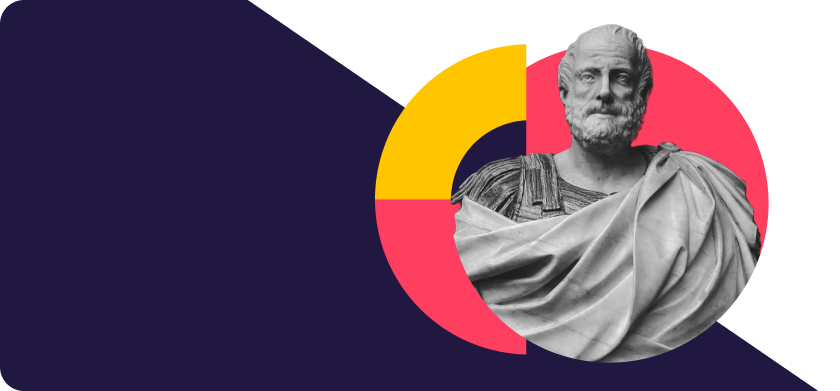
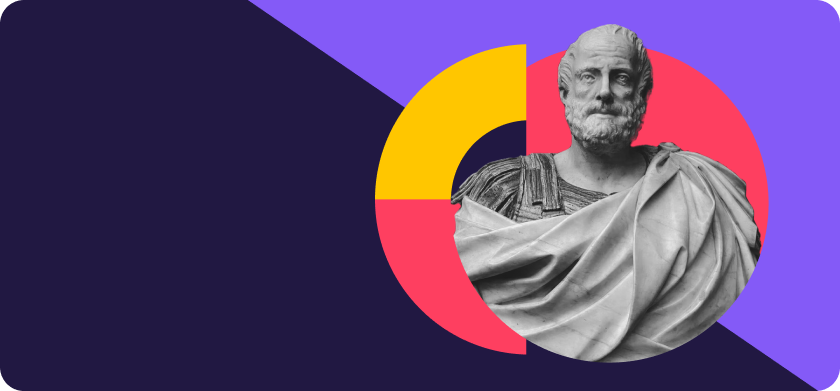
card 2

Changed region(s): [[0.2786, 0.0, 1.0, 1.0]]

diff --git a/src/components/Clases/Clases.jsx b/src/components/Clases/Clases.jsx
@@ -1,34 +1,33 @@
-import React,{useEffect, useState} from "react";
+import React, { useEffect, useState } from "react";
 import Mobile from "../../assets/mobile/bookmobile.png";
 import book from "../../assets/desktop/book.png";
 import fondo from "../../assets/desktop/fondo.png";
 import Statue from "../../assets/mobile/Image.png";
 import StatueDesk from "../../assets/desktop/statueDesk.png";
 import article2Mobile from "../../assets/mobile/card2.png";
-import article2 from "../../assets/Multimedia/article2.jpg";
+import article2 from "../../assets/desktop/repaso.png";
+import linesCard from "../../assets/desktop/linesCard.png";
 import MobileSlider from "../Carousel/Mobile/MobileSlider";
 import DeskSlider from "../Carousel/Desktop/DeskSlider";
-import axios from "axios"
+import axios from "axios";
 import { MdDone } from "react-icons/md";
 
 const Clases = () => {
   const whatsapp = "5491139478794";
-  const [userData, setUserData] = useState({})
+  const [userData, setUserData] = useState({});
   console.log(userData);
   useEffect(() => {
-    const data = async() => {
-      await axios.get("https://ipapi.co/json/")
-        .then((res) => {
-          if (!res) {
+    const data = async () => {
+      await axios.get("https://ipapi.co/json/").then((res) => {
+        if (!res) {
           console.log("error fetching ip api");
-          }
-          else {
-            setUserData(res.data)
-          }
-      })
-    }
-    data()
-  }, [])
+        } else {
+          setUserData(res.data);
+        }
+      });
+    };
+    data();
+  }, []);
   return (
     <section
       id="clases"
@@ -72,7 +71,7 @@ const Clases = () => {
           src={fondo}
           alt="background"
         />
-        <div className="z-10 flex flex-col gap-8 lg:flex-row lg:items-center lg:w-8/12 lg:h-[450px] 2xl:w-7/12 3xl:w-6/12">
+        <div className="z-10 flex flex-col gap-8 lg:flex-row lg:items-center lg:w-9/12 lg:h-[450px] 2xl:w-7/12 3xl:w-6/12">
           <div className="w-11/12 bg-white m-auto py-8 px-6 border rounded-xl flex flex-col gap-6 items-center justify-between sm:h-[500px] sm:p-10 lg:m-0 lg:h-full 2xl:py-10">
             <h4 className="font-poppins text-[18px] font-extrabold text-subTitleColor">
               Clases individuales
@@ -179,36 +178,57 @@ const Clases = () => {
           <div className="w-11/12 mx-auto h-[3px] my-3 bg-gray-100 lg:hidden"></div>
         </div>
       </article>
-      <article className="w-11/12 mx-auto mt-8 bg-blueColor rounded-[30px] sm:w-9/12 md:w-[62%] lg:w-8/12 lg:overflow-hidden lg:rounded-[18px] lg:relative  2xl:w-7/12 2xl:h-[417px] 3xl:w-6/12 4xl:h-[465px] xl:rounded-[30px]">
+      <article className="w-11/12 mx-auto mt-8 bg-blueColor lg:bg-transparent rounded-[26px] sm:rounded-[38px] sm:w-9/12 md:w-[62%] lg:w-9/12 lg:mt-10 lg:relative">
         <img
           className="w-full sm:object-cover lg:hidden"
           src={Statue}
           alt="statue"
         />
         <img
-          className="hidden lg:block lg:object-cover 2xl:h-[417px] 4xl:h-[465px]"
+          className="hidden lg:block w-full"
           src={StatueDesk}
           alt="statue"
         />
-        <div className="hidden absolute lg:flex lg:flex-col lg:bottom-10 lg:left-10 text-white 2xl:bottom-16 2xl:left-14">
+        <div className="absolute lg:flex lg:flex-col lg:bottom-10 lg:left-10 text-white 2xl:bottom-16 2xl:left-14">
           <h3 className="text-[56px] font-extrabold">
-            Get <span className="text-pinkColor">3</span> lessons, pay for{" "}
-            <span className="text-yellowColor">2</span>
+            3x2
           </h3>
           <p className="text-[26px] font-medium">abonando por anticipado</p>
         </div>
       </article>
-      <article className="w-11/12 mx-auto mt-8 bg-blueColor rounded-[30px] sm:w-9/12 md:w-[62%] lg:w-8/12  2xl:w-7/12 2xl:h-[417px] 3xl:w-6/12 4xl:h-[465px] xl:rounded-[30px]">
+      <article className="relative w-11/12 mx-auto mt-8 bg-blueColor lg:bg-transparent rounded-[26px]  sm:rounded-[38px] sm:w-9/12 md:w-[62%] lg:rounded-none lg:h-auto lg:w-9/12 lg:mt-0  2xl:w-7/12 3xl:w-6/12 xl:rounded-[30px]">
         <img
           className="w-full sm:object-cover lg:hidden"
           src={article2Mobile}
           alt="statue"
         />
         <img
-          className="hidden lg:block w-full 4xl:h-[465px]"
+          className="hidden lg:block w-full"
           src={article2}
           alt="curso de repaso intensivos"
         />
+        <div className="text-white absolute top-5 text-center flex flex-col sm:top-14 lg:top-36 lg:right-4 lg:text-start xl:top-52 xl:right-16 2xl:top-44 4xl:top-56 4xl:right-20">
+          <h3
+            className="font-poppins text-[2rem] font-extrabold sm:text-[2.2rem] md:text-[2.5rem] lg:text-[2.5rem]
+          "
+          >
+            EE & IA Coaching
+          </h3>
+          <img
+            className="hidden lg:block w-[210px]"
+            src={linesCard}
+            alt="lines decoration"
+          />
+          <p className="text-[1rem] font-medium w-10/12 m-auto leading-6 sm:w-7/12 md:text-[1.1rem] md:leading-8 lg:w-[360px] lg:text-start lg:text-[1.15rem]">
+            Submit your projects, gain insights from expert feedback, and excel
+            in your assessments.
+          </p>
+        </div>
+        <div className="absolute bottom-5 w-full flex justify-center md:bottom-8 lg:bottom-[66%] lg:justify-end">
+          <span className="text-[2rem] text-white font-extrabold font-manrope bg-titleColor w-32 text-center px-1 py-2 rounded">
+            80 USD
+          </span>
+        </div>
       </article>
       <article className="mt-10 flex flex-col gap-6 items-center w-full text-center 3xl:mt-32">
         <h3 className="font-poppins text-[24px] font-extrabold text-subTitleColor ">

diff --git a/tailwind.config.js b/tailwind.config.js
@@ -8,7 +8,7 @@ module.exports = {
         textColor: "#36314E",
         buttonColor: "#FE3F60",
         lilaColor: "#845AF7",
-        blueColor: "#845AF7",
+        blueColor: "#632AFF",
         yellowColor: "#FFC600",
         greenColor: "#1ADDC2",
       },
@@ -35,7 +35,7 @@ module.exports = {
 
       "3xl": "1800px",
       // => @media (min-width: 1800px) { ... }
-      
+
       "4xl": "2000px",
       // => @media (min-width: 2000px) { ... }
     },
